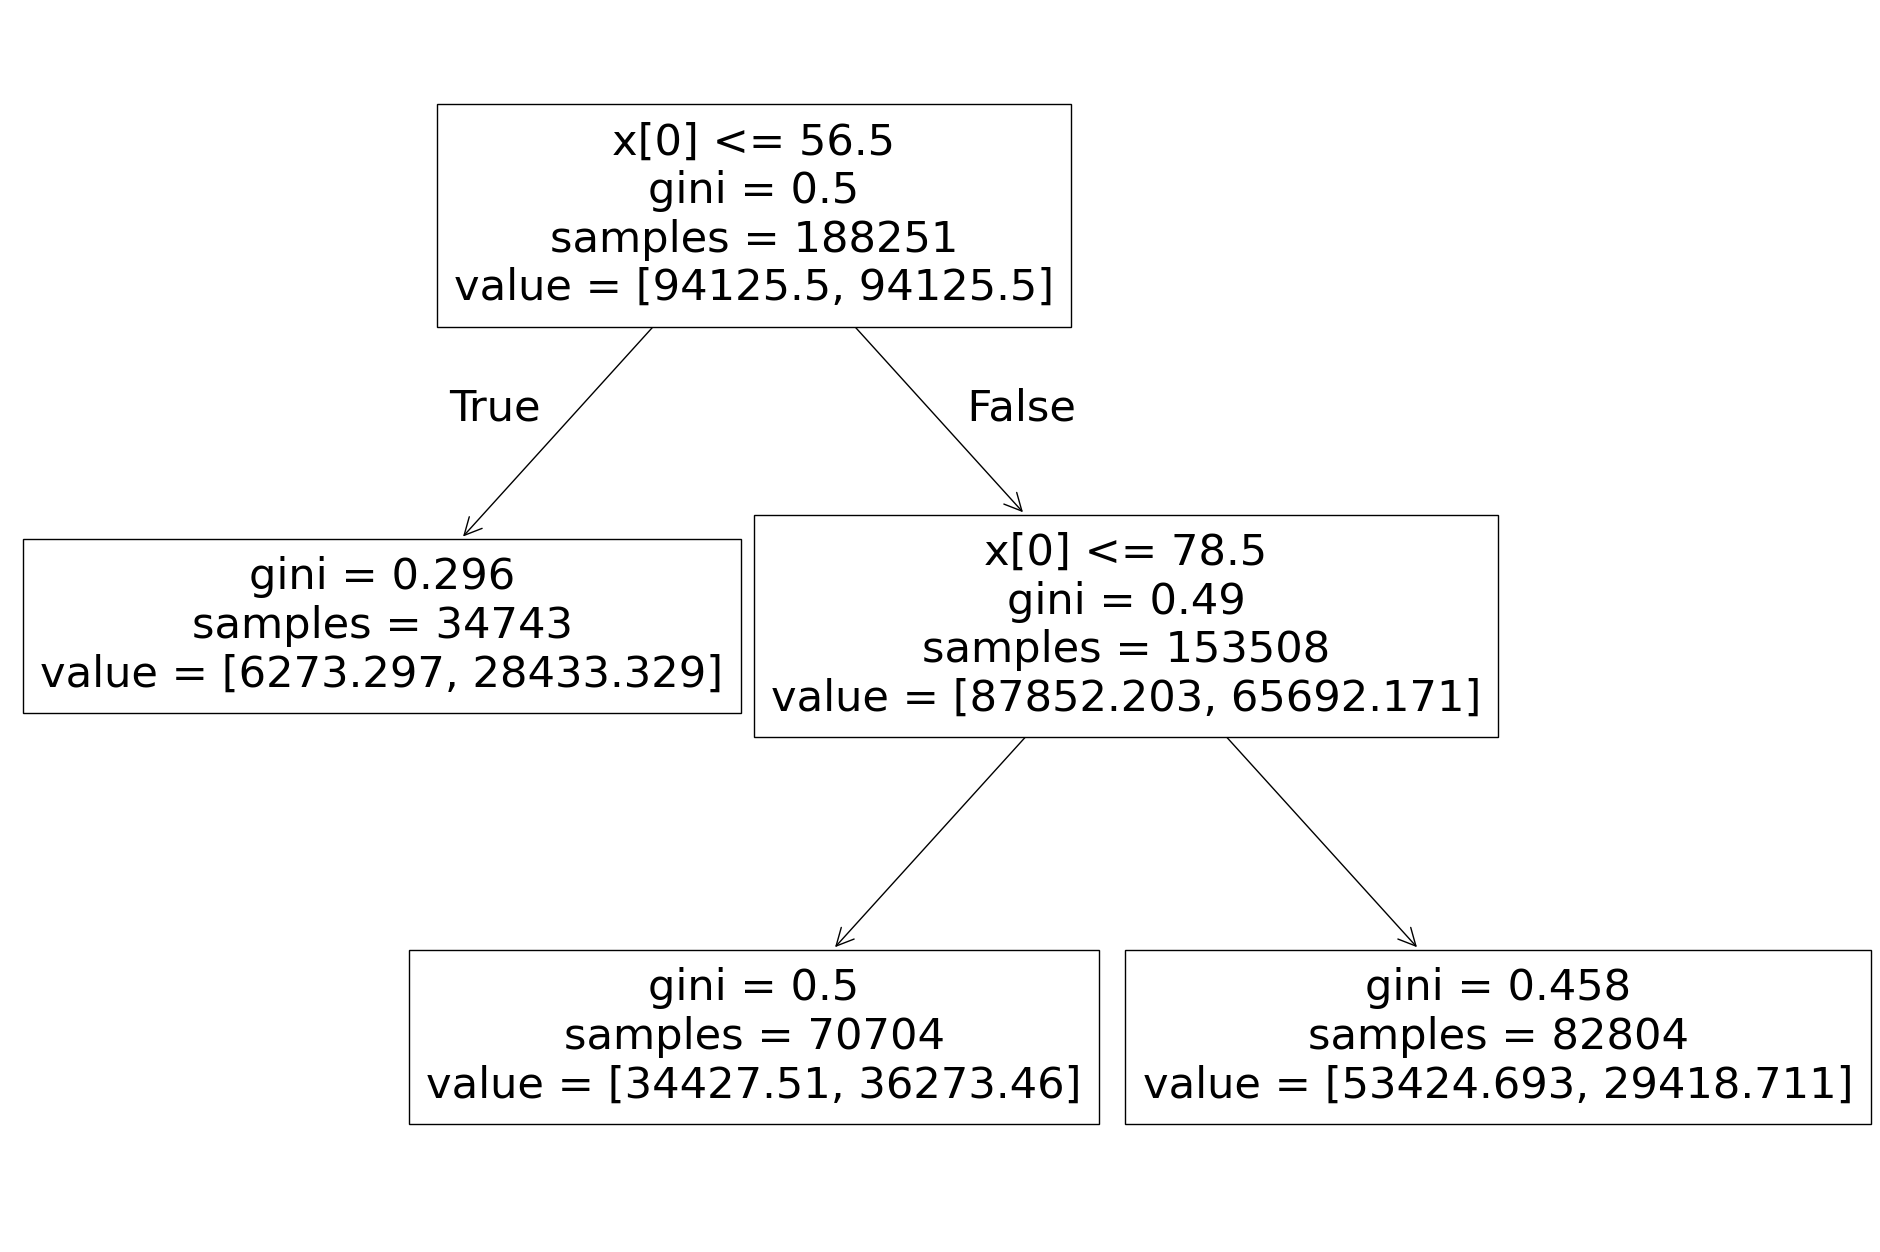
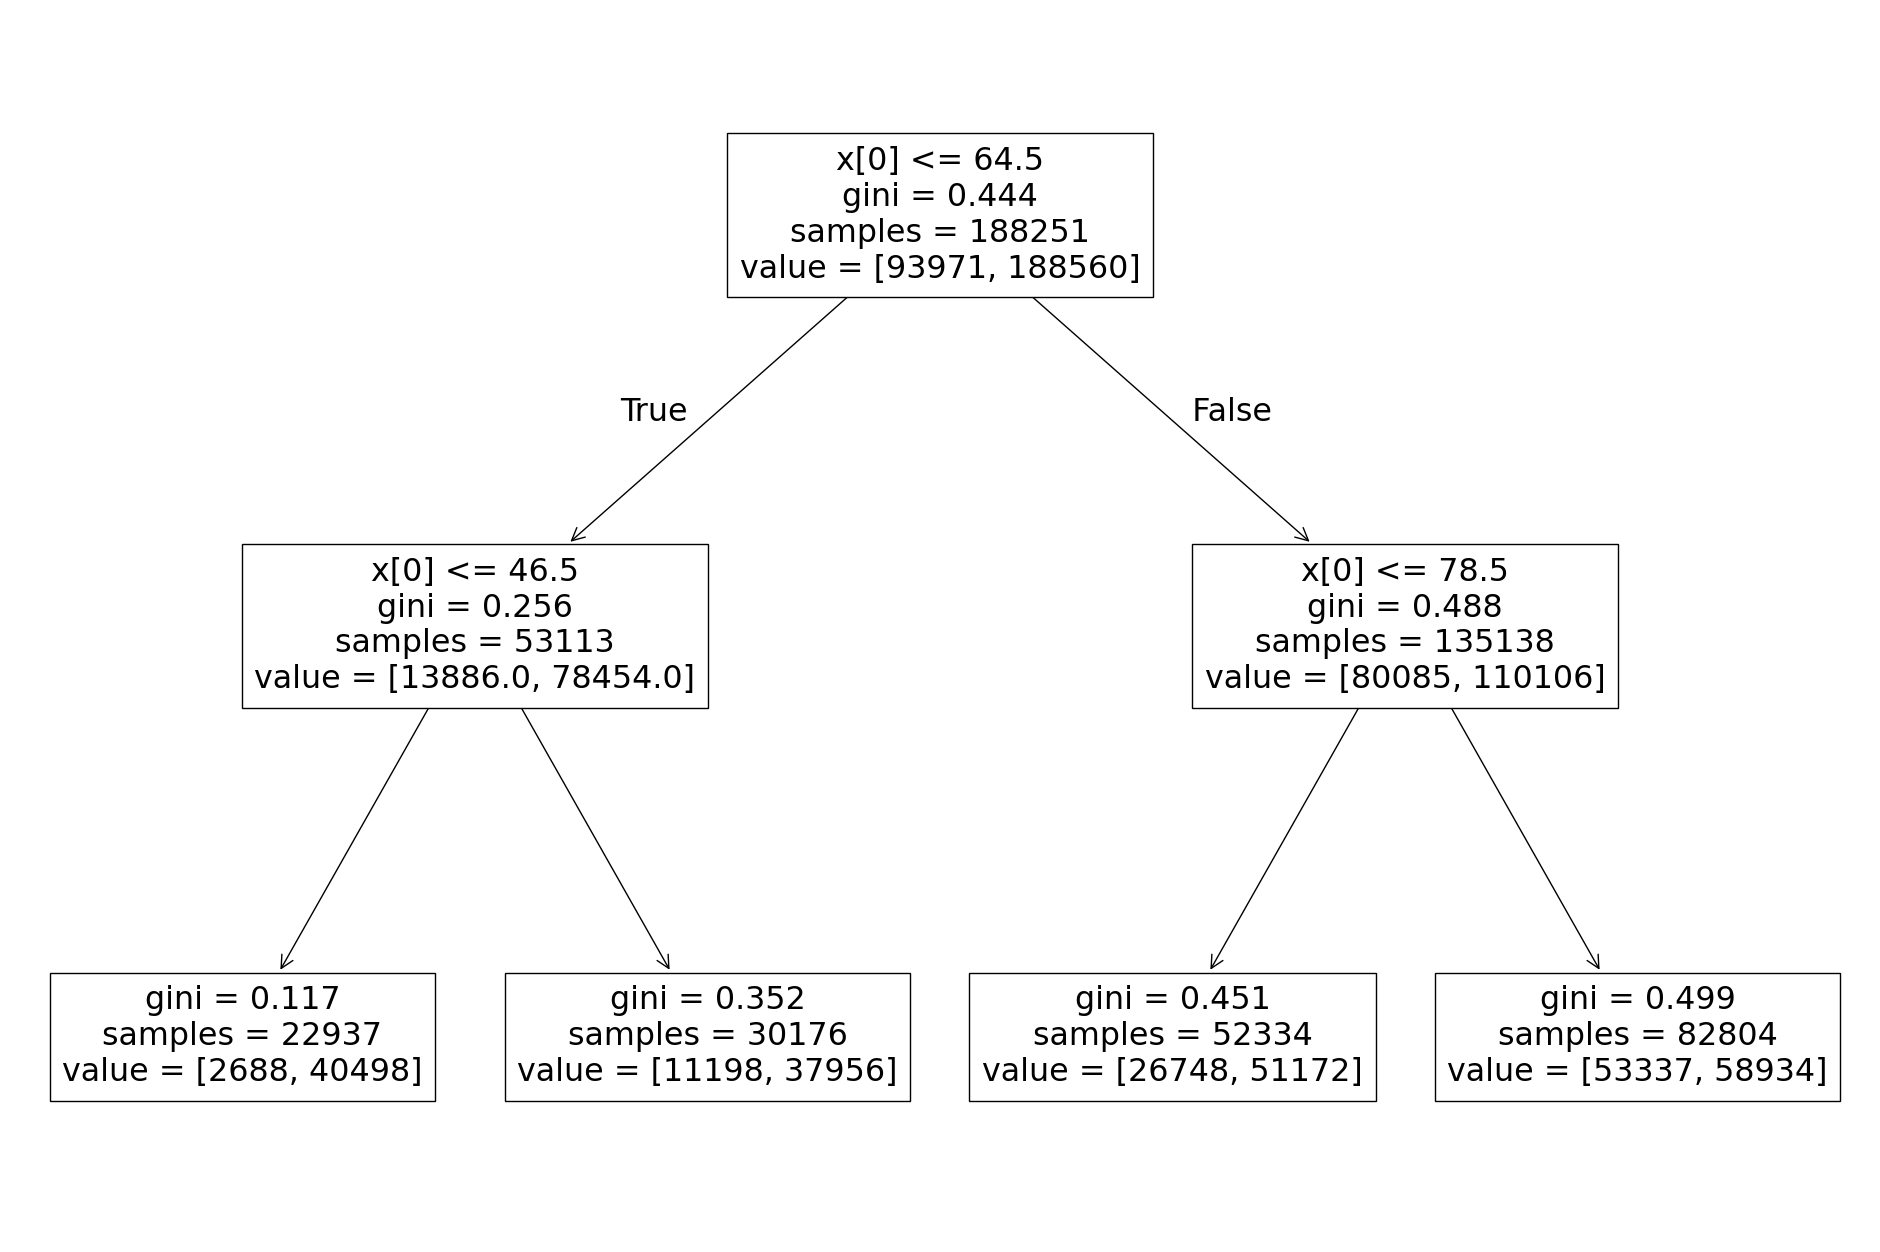
improved

diff --git a/main.py b/main.py
@@ -28,14 +28,15 @@ X_resampled, y_resampled = smote.fit_resample(X, y)
 X_train, X_test, y_train, y_test = train_test_split(X_resampled, y_resampled, test_size=0.2, random_state=42)
 
 param_grid = {
-    'max_depth': [2, 3],  
-    'min_samples_split': [30, 50, 70],  
-    'min_samples_leaf': [30, 40, 50],  
-    'ccp_alpha': [0.01, 0.05, 0.1, 0.2] 
+    'max_depth': [3, 4, 5],  
+    'min_samples_split': [20, 30, 50],  
+    'min_samples_leaf': [20, 30, 40],  
+    'ccp_alpha': [0.001, 0.005, 0.01]  
 }
 
 
-grid_search = GridSearchCV(tree.DecisionTreeClassifier(random_state=42, class_weight='balanced'), param_grid, cv=5, scoring='precision')
+
+grid_search = GridSearchCV(tree.DecisionTreeClassifier(random_state=42, class_weight={0: 1, 1: 2}), param_grid, cv=5, scoring='precision')
 grid_search.fit(X_train, y_train)
 
 best_dt = grid_search.best_estimator_
